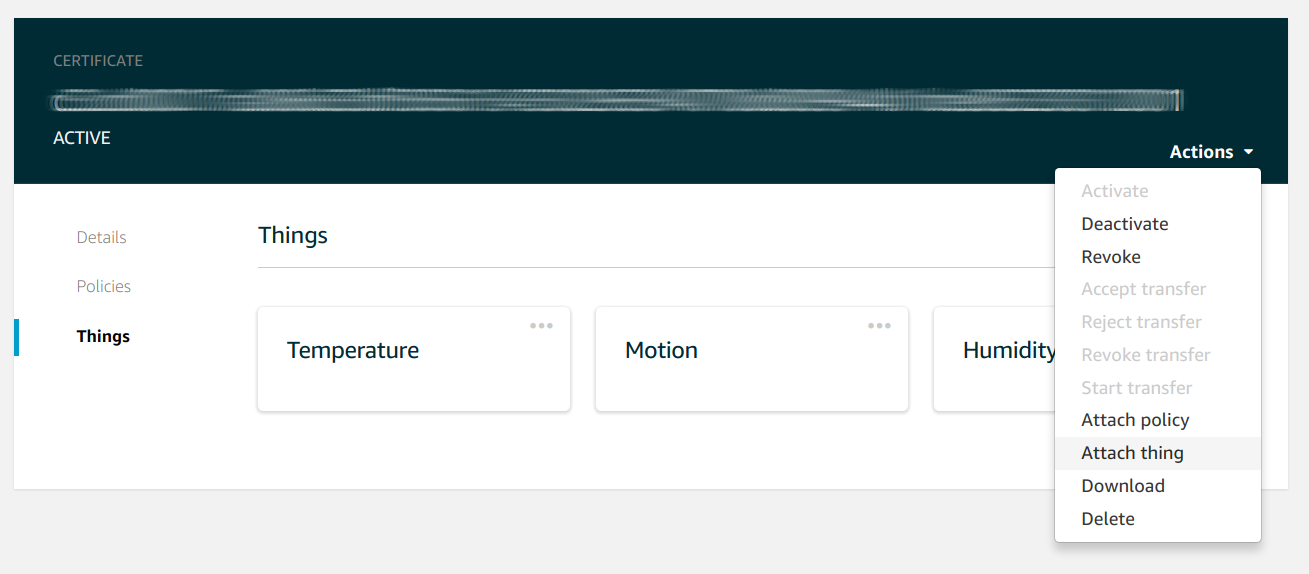
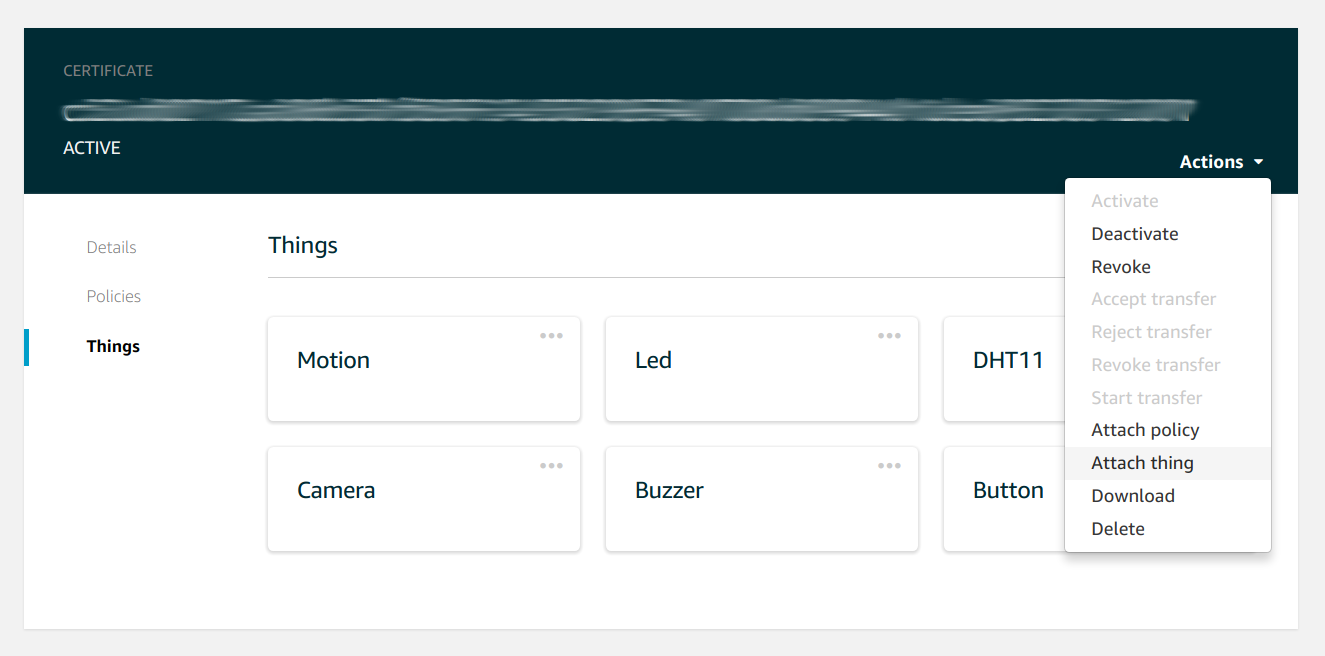
Documentation

diff --git a/README.md b/README.md
@@ -6,77 +6,111 @@ Example of usage of AwS Iot to monitoring a temperature, humidity and motion sen
 
 #### Create Things
 
-Log in to AWS console and simply create 3 things like this:
+Log in to AWS console and simply create some of things like this:
 
-Temperature
-* Name: `Temperature`
+Led
+* Name: `Led`
 * Shadow:
 ```json
 {
-  "desired": {
-    "celsius": 0,
-    "fahrenheit": 0,
-    "kelvin": 0
+  "desired": null,
+  "reported": {
+    "active": 1
   }
 }
 ```
 
-Humidity
-* Name: `Humidity`
+DHT11
+* Name: `DHT11`
 * Shadow:
 ```json
 {
-  "desired": {
-    "percentage": 0
+  "desired": null,
+  "reported": {
+    "temperature": 0,
+    "humidity": 0
   }
 }
 ```
+
+Camera
+* Name: `Camera`
+
+Button
+* Name: `Button`
 
 Motion
 * Name: `Motion`
 * Shadow:
 ```json
 {
-  "desired": {
-    "active": 0
+  "desired": null,
+  "reported": {
+    "enable": 1,
+    "isInAlarm": 1
+  }
+}
+```
+
+Buzzer
+* Name: `Buzzer`
+* Shadow:
+```json
+{
+  "desired": null,
+  "reported": {
+    "ringing": 1
   }
 }
 ```
 ![things](https://raw.githubusercontent.com/daaru00/aws-iot-example/master/doc/aws-iot-things.png)
 
-For semplicity create all the things without creating a new certificate for each, then create a single certifiate and attach it to all things.
+For semplicity create all the things without creating a new certificate for each, then create a single certifiate (using "One-click certificate creation" procedure) and attach it to all things.
 
 ![things](https://raw.githubusercontent.com/daaru00/aws-iot-example/master/doc/aws-iot-certificates.png)
 
-#### Create Rules
+Use `Security -> Certificates` menu to create new one and edit connected things, remember to download all the keys including "root CA" using [download link](https://www.symantec.com/content/en/us/enterprise/verisign/roots/VeriSign-Class%203-Public-Primary-Certification-Authority-G5.pem).
 
-For each sensor create a rule that take as input the sensor's value from the update/accepted topic and transform it into a CloudWatch metric.
-In actions section add an "Sends message data to CloudWatch" action, set the values as follow.
-![things](https://raw.githubusercontent.com/daaru00/aws-iot-example/master/doc/aws-iot-rules.png)
+![things](https://raw.githubusercontent.com/daaru00/aws-iot-example/master/doc/aws-iot-certificate-create.png)
+
+#### Create CloudWatch metrics
+
+For DHT11 sensor that report a temperature and humidity values create a rule named "DHT11" that take as input the sensor's value from the `update/accepted` topic.
+
+DHT11
+* Rule query statement: `SELECT * FROM '$aws/things/DHT11/shadow/update/accepted'`
+
+In actions section add two actions selecting "Sends message data to CloudWatch", set the values as follow.
 
 Temperature
-* Rule query statement: `SELECT state.desired.celsius FROM '$aws/things/Temperature/shadow/update/accepted'`
 * Metric name: `Temperature`
 * Metric namespace: `Sensor`
 * Unit `None`
-* Value `${state.desired.celsius}`
+* Value `${state.reported.temperature}`
 
 Humidity
-* Rule query statement: `SELECT state.desired.percentage FROM '$aws/things/Humidity/shadow/update/accepted'`
 * Metric name: `Humidity`
 * Metric namespace: `Sensor`
 * Unit `Percent`
-* Value `${state.desired.percentage}`
+* Value `${state.reported.humidity}`
+
+![things](https://raw.githubusercontent.com/daaru00/aws-iot-example/master/doc/aws-iot-rule-cloudwatch.png)
+
+attach a new IAM role name with "create" button.
+
+#### Create SNS Topic
+
+If you want to get notfied when motion alarm is fired you have to create a second rule connected on custom topic `motion-acivated`.
 
 Motion
-* Rule query statement: `SELECT state.desired.active FROM '$aws/things/Motion/shadow/update/accepted'`
-* Metric name: `Motion`
-* Metric namespace: `Sensor`
-* Unit `None`
-* Value `${state.desired.active}`
+* Rule query statement: `SELECT * FROM 'motion-acivated'`
 
-![things](https://raw.githubusercontent.com/daaru00/aws-iot-example/master/doc/aws-iot-rule-details.png)
-attach a new IAM role name with "create" button.
+Then add an action selecting "Send a message as an SNS push notification", create a new SNS topic or attach an existing one, select a raw message format and attach an IAM role.
+
+![things](https://raw.githubusercontent.com/daaru00/aws-iot-example/master/doc/aws-iot-rule-sns.png)
+
+If you want to receive an email when a message is pushed on that SNS topic, go to SNS service dashboard, select the create topic and then `Action -> Subscribe to topic`. Select email protocol,  insert into enpoint field your email and click on "Create Subscription" button.
+Now an email will be sent on your email, you have to confirm that subscription simply clicking on the "Confim subscription" link.
 
 #### Init Project
 
@@ -84,34 +118,75 @@ Clone this repo and install all npm dependencies
 ```bash
 npm install
 ```
-Create a `.env` file with keys paths and hostname
+Create a `.env` file with keys paths (download when you created the certificate) and hostname
 ```
 HOST=xxxxxxxxxxx.iot.us-east-1.amazonaws.com
 PRIVATE_KEY=/path/to/keys/xxxxxxxxx-private.pem.key
-CLIENT_CERT=/path/to/keys//xxxxxxxxx-certificate.pem.crt
+CLIENT_CERT=/path/to/keys/xxxxxxxxx-certificate.pem.crt
 CA_CERT=/path/to/keys/root-CA.crt
+DEBUG=false
 ```
 
 ### Launch it
 
-Exec the example using npm start script
+Exec one of the examples using npm script,
+
 ```bash
-npm start
+npm run dht11
 ```
-Every 5 seconds the example generate a random value for each sensor and push it on AWS IoT.
+Every second the example generate a random value for temperature and humidity value and push it on AWS IoT.
+
+```bash
+npm run motion
+```
+Every second the example generate a predefined state (0,0,0,1,0,0,0,1) and you'll receive the notification when the status become 1 from 0.
+
+```bash
+npm run camera
+```
+This example simulate a button to take a photo from the camera when clicked
+
+```bash
+npm run led
+```
+When remotly you change the desired state of led sensor this example notify the change.
 
 ### Show Metric
 
-Go to CloudWatch and select the custom metric create "Sensor/Temperature", "Sensor/Humidity" or "Sensor/Motion"
+Go to CloudWatch and select the custom metric create "Sensor/Temperature" or "Sensor/Humidity"
 ![things](https://raw.githubusercontent.com/daaru00/aws-iot-example/master/doc/aws-cloudwatch-metrics.png)
 
 ### Code Specs
 
 Inside lib directory you will find a `thing.js` file that describe Thing class, core of the example.
 In devices directory there are the device's file with the custom class that extends Thing class with setters method.
+
 When the specific property is update it trigger AWS IoT SDK to push the new data
 ```javascript
-temp.celsius = 25;
+motion.isInAlarm = 0;
+```
+
+From the inside of device's class you can push message on custom topic
+```javascript
+this.send("motion-acivated");
+```
+
+Get message from the topic when sended
+```javascript
+this.on("motion-acivated", function(message){
+  // do stuff
+})
+```
+
+Listen from remote state changes
+```javascript
+this.onChange(function(state){
+  if(state.active == 0){
+    //do stuff
+  }else{
+    //do other stuff
+  }
+})
 ```
 
 ### Debug
